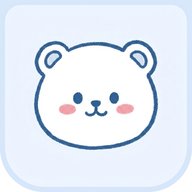
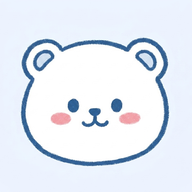
v3.4.6: replace bear-default.png with user-cropped version (no padding), revert scale compensation, cache voco-v21

Changed region(s): [[0.0938, 0.1875, 0.9062, 0.875], [0.4062, 0.4688, 0.75, 0.6875], [0.8438, 0.9688, 0.875, 1.0]]

diff --git a/🖥 前端/app.js b/🖥 前端/app.js
@@ -528,7 +528,7 @@ function renderBearHeatmap(vocab, reports) {
 
   container.innerHTML = days.map(d => `
     <div class="bear-day" title="${d.date}${d.active ? ' · 已练习' : ''}" onclick="showBearDay('${d.date}',${d.active})">
-      <img class="bear-img${d.active ? '' : ' bear-img-default'}" src="${d.active ? '/bear-active.png' : '/bear-default.png'}" alt="${d.active ? '🐻' : '🌱'}" loading="lazy"
+      <img class="bear-img" src="${d.active ? '/bear-active.png' : '/bear-default.png'}" alt="${d.active ? '🐻' : '🌱'}" loading="lazy"
         onerror="this.style.display='none';this.insertAdjacentHTML('afterend','<span style=display:flex;align-items:center;justify-content:center;width:36px;height:36px;min-width:36px;min-height:36px;border-radius:50%;background:var(--border-light);font-size:18px>${d.active ? '🐻' : '🌱'}</span>')" />
       <span class="bear-date">${d.month}/${d.day}</span>
     </div>
@@ -1559,5 +1559,5 @@ sb.auth.onAuthStateChange((event, session) => {
 checkAuth();
 
 if ('serviceWorker' in navigator) {
-  navigator.serviceWorker.register('/sw.js?v=18');
+  navigator.serviceWorker.register('/sw.js?v=19');
 }

diff --git a/🖥 前端/style.css b/🖥 前端/style.css
@@ -329,9 +329,7 @@ body {
 .bear-heatmap::-webkit-scrollbar { display: none; }
 .bear-day { display: flex; flex-direction: column; align-items: center; gap: 4px; flex-shrink: 0; cursor: pointer; width: 48px; }
 .bear-img { width: 36px; height: 36px; min-width: 36px; min-height: 36px; object-fit: contain; border-radius: 50%; transition: transform 0.15s; }
-.bear-img-default { transform: scale(1.2); }
 .bear-day:active .bear-img { transform: scale(1.15); }
-.bear-day:active .bear-img-default { transform: scale(1.35); }
 .bear-date { font-size: 10px; color: var(--text-ultradim); white-space: nowrap; text-align: center; }
 
 /* ═══════════════════════════════════════════════════════

diff --git a/🖥 前端/index.html b/🖥 前端/index.html
@@ -11,7 +11,7 @@
   <link rel="apple-touch-icon" href="/icon.png">
   <link rel="preload" href="/bear-default.png" as="image">
   <link rel="preload" href="/bear-active.png" as="image">
-  <link rel="stylesheet" href="/style.css?v=18">
+  <link rel="stylesheet" href="/style.css?v=19">
   <script src="https://cdn.jsdelivr.net/npm/@supabase/supabase-js@2"></script>
   <style>
     /* Splash screen — covers Render cold-start / white-screen gap */
@@ -325,8 +325,8 @@
   </nav>
 </div>
 
-<script src="/supabase-client.js?v=18"></script>
-<script src="/parser.js?v=18"></script>
-<script src="/app.js?v=18"></script>
+<script src="/supabase-client.js?v=19"></script>
+<script src="/parser.js?v=19"></script>
+<script src="/app.js?v=19"></script>
 </body>
 </html>

diff --git a/🖥 前端/sw.js b/🖥 前端/sw.js
@@ -1,6 +1,6 @@
 // Voco Service Worker — cache-first (instant load even when Render is cold)
-const CACHE = 'voco-v20';
-const FILES = ['/','/index.html?v=18','/style.css?v=18','/app.js?v=18','/manifest.json','/supabase-client.js?v=18','/parser.js?v=18','/icon.png','/bear-default.png','/bear-active.png'];
+const CACHE = 'voco-v21';
+const FILES = ['/','/index.html?v=19','/style.css?v=19','/app.js?v=19','/manifest.json','/supabase-client.js?v=19','/parser.js?v=19','/icon.png','/bear-default.png','/bear-active.png'];
 
 self.addEventListener('install', e => {
   self.skipWaiting();
